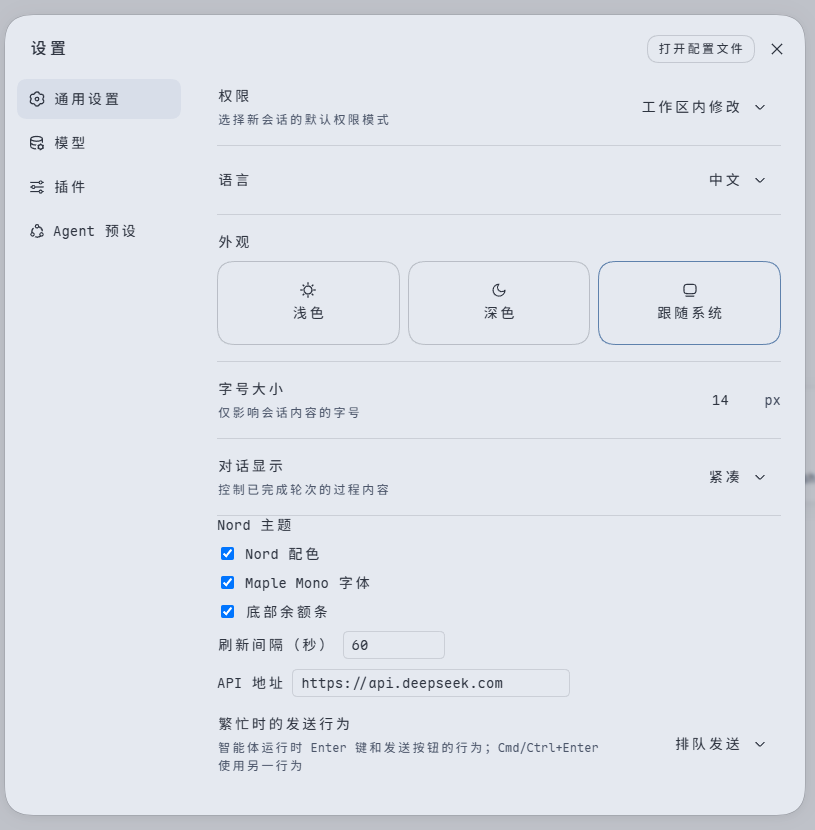
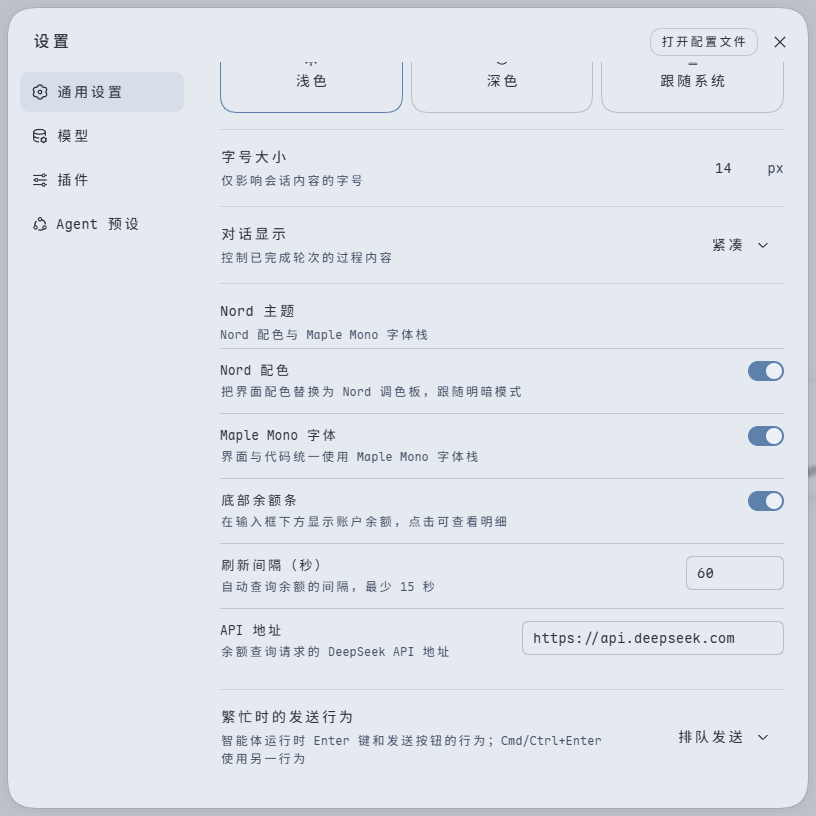
feat: 设置行改用 Switch 开关，每项补上说明文字
布尔项换成模块表里的官方 Switch（右对齐），字段换成官方 Input；行距、层级与分隔线对齐系统设置行的排版。README 设置卡截图在 0.1.5-rc.2 上重拍。

diff --git a/src/client/NordCard.tsx b/src/client/NordCard.tsx
@@ -2,9 +2,17 @@
  * General-section preference row: the theme, font, balance, and endpoint
  * controls. The owner supplies no props and draws no label — the row owns its
  * internals, its copy, and its write path.
+ *
+ * Every option is one row in the shape shipped settings rows use: label and
+ * explanation on the left, control on the right, a hairline between rows. The
+ * three booleans use the shared `Switch` — the design system owns the on/off
+ * skin, its focus ring, and its disabled state, which a native checkbox cannot
+ * carry.
  */
+import { Input, Switch } from '@deepseek-ai/dsh-client-ui-primitives'
 import type { PropsLocale, PropsRuntime, PropsStore } from '@deepseek-ai/dsh-client-ui-slots'
 import type {} from '@deepseek-ai/dsh-client-ui-settings/client'
+import type { NordKey } from './locales.ts'
 import type { createNordSettingsStore } from './stores.ts'
 
 /** Injected business face: one durable field write. */
@@ -20,22 +28,42 @@ export type NordCardProps =
   & PropsLocale<'dshNord'>
   & NordCardInjected
 
-/** Row layout. A shipped plugin replaces this with the Client styling pipeline. */
-const ROW_STYLE = { display: 'flex', flexDirection: 'column', gap: '10px' } as const
-const TITLE_STYLE = { color: 'var(--dsw-alias-label-primary)' } as const
-const OPTION_STYLE = { display: 'flex', alignItems: 'center', gap: '8px' } as const
-const FIELD_STYLE = {
-  width: '84px',
-  padding: '4px 8px',
-  border: '1px solid var(--dsw-alias-border-l2)',
-  borderRadius: '6px',
-  background: 'var(--dsw-alias-bg-layer-1)',
-  color: 'var(--dsw-alias-label-primary)',
-  font: 'inherit',
+/** Card chrome. The section strips the trailing hairline wherever the column ends. */
+const CARD_STYLE = {
+  display: 'flex',
+  flexDirection: 'column',
+  padding: '16px 0',
+  borderBottom: '0.5px solid var(--dsw-alias-border-l2)',
 } as const
-const URL_STYLE = { ...FIELD_STYLE, width: '260px' } as const
-const NOTE_STYLE = { color: 'var(--dsw-alias-label-tertiary)', fontSize: '12px' } as const
-const ERROR_STYLE = { color: 'var(--dsw-alias-state-error-primary)', fontSize: '12px' } as const
+const HEADING_STYLE = { display: 'flex', flexDirection: 'column', gap: '4px', paddingBottom: '4px' } as const
+const TITLE_STYLE = { fontSize: '14px', lineHeight: '22px', color: 'var(--dsw-alias-label-primary)' } as const
+const SUMMARY_STYLE = { fontSize: '12px', lineHeight: '18px', color: 'var(--dsw-alias-label-tertiary)' } as const
+
+/** One option: label block flexed left, control right, hairline above the row. */
+const ROW_STYLE = {
+  display: 'flex',
+  alignItems: 'flex-start',
+  justifyContent: 'space-between',
+  gap: '16px',
+  padding: '12px 0',
+  borderTop: '0.5px solid var(--dsw-alias-border-l3)',
+} as const
+const ROW_TEXT_STYLE = {
+  display: 'flex',
+  flex: '1 1 auto',
+  flexDirection: 'column',
+  gap: '2px',
+  minWidth: 0,
+} as const
+const LABEL_STYLE = { fontSize: '13px', lineHeight: '20px', color: 'var(--dsw-alias-label-primary)' } as const
+const HINT_STYLE = { fontSize: '12px', lineHeight: '18px', color: 'var(--dsw-alias-label-tertiary)' } as const
+
+/** Field widths for `Input`, whose own root shrink-wraps the inner input. */
+const INTERVAL_STYLE = { width: '76px' } as const
+const URL_STYLE = { width: '240px' } as const
+
+const NOTE_STYLE = { margin: 0, fontSize: '12px', lineHeight: '18px', color: 'var(--dsw-alias-label-tertiary)' } as const
+const ERROR_STYLE = { ...NOTE_STYLE, color: 'var(--dsw-alias-state-error-primary)' } as const
 
 /**
  * Render the Nord preference row.
@@ -55,52 +83,74 @@ export function NordCard({ useStore, t, save }: NordCardProps) {
   if (!served) return <p style={NOTE_STYLE}>{t('card.unavailable')}</p>
 
   const disabled = !writable
-  const toggle = (field: string, value: boolean) => () => { if (!disabled) save(field, value) }
+  const locked = disabled ? t('card.readonly') : undefined
+  const toggleRow = (
+    label: NordKey,
+    hint: NordKey,
+    checked: boolean,
+    field: 'themeEnabled' | 'fontEnabled' | 'balanceEnabled',
+  ) => (
+    <div style={ROW_STYLE}>
+      <div style={ROW_TEXT_STYLE}>
+        <div style={LABEL_STYLE}>{t(label)}</div>
+        <div style={HINT_STYLE}>{t(hint)}</div>
+      </div>
+      <Switch
+        checked={checked}
+        label={t(label)}
+        disabled={disabled}
+        title={locked}
+        onChange={(next) => { save(field, next) }}
+      />
+    </div>
+  )
 
   return (
-    <div style={ROW_STYLE}>
-      <div style={TITLE_STYLE}>{t('card.title')}</div>
-      <label style={OPTION_STYLE}>
-        <input type="checkbox" checked={themeEnabled} disabled={disabled} onChange={toggle('themeEnabled', !themeEnabled)} />
-        {t('card.theme')}
-      </label>
-      <label style={OPTION_STYLE}>
-        <input type="checkbox" checked={fontEnabled} disabled={disabled} onChange={toggle('fontEnabled', !fontEnabled)} />
-        {t('card.font')}
-      </label>
-      <label style={OPTION_STYLE}>
-        <input type="checkbox" checked={balanceEnabled} disabled={disabled} onChange={toggle('balanceEnabled', !balanceEnabled)} />
-        {t('card.balance')}
-      </label>
-      <label style={OPTION_STYLE}>
-        {t('card.refresh')}
-        <input
+    <div style={CARD_STYLE}>
+      <div style={HEADING_STYLE}>
+        <div style={TITLE_STYLE}>{t('card.title')}</div>
+        <div style={SUMMARY_STYLE}>{t('card.summary')}</div>
+      </div>
+      {toggleRow('card.theme', 'card.themeHint', themeEnabled, 'themeEnabled')}
+      {toggleRow('card.font', 'card.fontHint', fontEnabled, 'fontEnabled')}
+      {toggleRow('card.balance', 'card.balanceHint', balanceEnabled, 'balanceEnabled')}
+      <div style={ROW_STYLE}>
+        <div style={ROW_TEXT_STYLE}>
+          <div style={LABEL_STYLE}>{t('card.refresh')}</div>
+          <div style={HINT_STYLE}>{t('card.refreshHint')}</div>
+        </div>
+        <Input
           type="number"
           min={15}
           max={3600}
           step={1}
           value={refreshSeconds}
           disabled={disabled}
-          style={FIELD_STYLE}
+          aria-label={t('card.refresh')}
+          style={INTERVAL_STYLE}
           onChange={(event) => {
             const next = Number(event.currentTarget.value)
             if (Number.isInteger(next) && next >= 15 && next <= 3600) save('refreshSeconds', next)
           }}
         />
-      </label>
-      <label style={OPTION_STYLE}>
-        {t('card.baseURL')}
-        <input
+      </div>
+      <div style={ROW_STYLE}>
+        <div style={ROW_TEXT_STYLE}>
+          <div style={LABEL_STYLE}>{t('card.baseURL')}</div>
+          <div style={HINT_STYLE}>{t('card.baseURLHint')}</div>
+        </div>
+        <Input
           type="text"
           defaultValue={baseURL}
           disabled={disabled}
+          aria-label={t('card.baseURL')}
           style={URL_STYLE}
           onBlur={(event) => {
             const next = event.currentTarget.value.trim()
             if (next !== '' && next !== baseURL) save('baseURL', next)
           }}
         />
-      </label>
+      </div>
       {disabled ? <p style={NOTE_STYLE}>{t('card.readonly')}</p> : null}
       {error === '' ? null : <p style={ERROR_STYLE}>{t('card.saveFailed')}</p>}
     </div>

diff --git a/src/client/locales.ts b/src/client/locales.ts
@@ -8,10 +8,15 @@ export const zh = {
   'card.title': 'Nord 主题',
   'card.summary': 'Nord 配色与 Maple Mono 字体栈',
   'card.theme': 'Nord 配色',
+  'card.themeHint': '把界面配色替换为 Nord 调色板，跟随明暗模式',
   'card.font': 'Maple Mono 字体',
+  'card.fontHint': '界面与代码统一使用 Maple Mono 字体栈',
   'card.balance': '底部余额条',
+  'card.balanceHint': '在输入框下方显示账户余额，点击可查看明细',
   'card.refresh': '刷新间隔（秒）',
+  'card.refreshHint': '自动查询余额的间隔，最少 15 秒',
   'card.baseURL': 'API 地址',
+  'card.baseURLHint': '余额查询请求的 DeepSeek API 地址',
   'card.readonly': '当前连接不写入主机设置，改动只在本页生效',
   'card.unavailable': '未检测到 Host 半边，设置不可用',
   'card.saveFailed': '保存失败',
@@ -39,10 +44,15 @@ export const en: Record<NordKey, string> = {
   'card.title': 'Nord theme',
   'card.summary': 'Nord palette and Maple Mono font stacks',
   'card.theme': 'Nord palette',
+  'card.themeHint': 'Replace the interface palette with Nord, following light and dark mode',
   'card.font': 'Maple Mono font',
+  'card.fontHint': 'Use the Maple Mono stacks for both interface and code',
   'card.balance': 'Balance bar',
+  'card.balanceHint': 'Show the account balance under the composer; click it for details',
   'card.refresh': 'Refresh interval (s)',
+  'card.refreshHint': 'How often the balance is re-read; 15 seconds minimum',
   'card.baseURL': 'API base URL',
+  'card.baseURLHint': 'DeepSeek API address used for balance lookups',
   'card.readonly': 'This connection does not write host settings; changes stay on this page',
   'card.unavailable': 'Host half is not mounted; settings are unavailable',
   'card.saveFailed': 'Save failed',

diff --git a/DEVELOPMENT.md b/DEVELOPMENT.md
@@ -11,7 +11,7 @@ src/balance.ts             Host ↔ 浏览器之间的余额载荷类型
 src/client/index.ts        浏览器半边：主题层、字体、样式表、设置卡、余额轮询、两个 slot 注册
 src/client/nord.ts         Nord 调色板（116 token）、字体栈、余额表面的 CSS
 src/client/BalanceBar.tsx  余额读数与其明细面板
-src/client/NordCard.tsx    设置行
+src/client/NordCard.tsx    设置行的开关与字段
 src/client/stores.ts       设置卡与余额的 slot store
 src/client/locales.ts      `dshNord` 命名空间的中英文案
 tests/balance-mock.mjs     上游 `/user/balance` 的本地替身
@@ -28,6 +28,7 @@ assets/                    README 截图
 | Maple Mono 字体 | 一枚 `<style>` 里的 `:root` 规则 |
 | 余额 | Host 侧 `webServer` 上的 `GET /nord/balance`，用 `ctx.credentials` 解析 `DEEPSEEK_API_KEY`；浏览器侧是 dock 里一枚可点击读数 + 明细面板 |
 | 设置项 | Host `ctx.settings.installSection()` + 浏览器侧 `settings.general.item` 行，持久化进 `settings.yaml` |
+| 设置卡控件 | 模块表基线里的 `@deepseek-ai/dsh-client-ui-primitives`：布尔项用 `Switch`、字段用 `Input`，行距与配色走内联 style |
 | 余额表面的样式 | 插件自己的一枚 `<style>`（`surfaceStylesheet`）：dock 行规则、读数皮肤、面板皮肤 |
 
 ### 为什么配色走 `overrideTokens` 而不是「注册一个主题」
@@ -41,6 +42,12 @@ assets/                    README 截图
 - **81 个 `--dsw-alias-*`** —— 官方 alias 层的完整覆盖，不靠 `!important`、不靠 DOM 手术。
 - **10 个 `--dsw-specific-*`** —— 侧边栏、composer、选择器这些具名表面。
 - **25 个 `--dsw-static-*`** —— 补丁。有一批组件（计划卡、交付物、指南正文、文件类型图标、加载渐变）绕过 alias 直接读静态色阶，官方 light 把这些取成近白，在 Nord 画布上就是一个个白框。这是「浅色露白框」的真正成因，只覆盖 alias 治不了。
+
+### 设置卡为什么能用官方控件
+
+`@deepseek-ai/dsh-client-ui-primitives` 是 Web shell 预置进模块表的基线模块（`packages/client/web/src/platform.ts` 的 `PLATFORM_MODULES`），所以树外插件的 `require` 拿到的就是官方设置行用的那个模块实例，而不是打包进来的第二份：`Switch` 的胶囊皮肤、焦点环、禁用态与 `Input` 的聚焦边框都不必自己写，也不必担心 React 上下文重复。
+
+设置卡其余部分（行距、标签与说明文字的层级、字段宽度）仍是内联 style —— 树外构建没有 CSS Modules 管线，而这些声明也不需要 `:hover` / `:focus` 状态。布尔项从原生 checkbox 换成 `Switch` 也是同一个理由：勾选框在不同浏览器与配色模式下样式不可控，开关的外观则由设计系统持有。
 
 ### 为什么字体是一枚 `:root` 规则
 
@@ -141,7 +148,8 @@ DEEPSEEK_API_KEY=test-key dsh --profile web
 - Host 路由：`GET /nord/balance` 在浏览器会话栅栏后返回 200；无凭据 `{"error":"credentials-missing"}`；接 mock 后返回 `{"currency":"CNY","total":"42.50","granted":"2.50","toppedUp":"40.00","available":true,…}`。
 - 排版（隔离实例 + headless Edge 打开真实页面）：出口节点内联样式仍是 `display: contents`、计算值变成 `flex`；出口的两个子节点是官方 pill 行（`1 轮 1 步`，top 870、高 26、`padding-top` 4）与余额条（top 874、高 22、`margin-top: 4px`、`padding: 1px 8px`、`border-radius: 24px`、图标 16×16），后者计算字号 13px、字体 Maple Mono、行高 20px，两行文字同起于 875。
 - 面板：`role="dialog"`、300×159、位于读数上方 `874 − 8 − 159 = 707`、左边缘与读数对齐，圆角 12、内边距 16、字号 12/18、背景即 Nord `nord4`；四行明细取值正确；Escape 关闭；等过一个刷新周期后面板仍开着、数值不变而更新时间前进。
-- 观感：`assets/` 里的三张截图就是在这套隔离实例里拍的（拍在 `0.1.5-rc.1` 上；rc.2 的排版实测与上面一致）。
+- 设置卡（同一套隔离实例）：`通用` 段里只有这三个 `role="switch"` 控件，尺寸 36×20，右边缘与所在行右边缘齐平；每行标签下是 12/18 的说明文字；两个 `Input` 实宽 98 与 262；点「底部余额条」后 `aria-checked` 转 `false` 且 `settings.yaml` 落盘 `dsh-nord: balanceEnabled: false`，再点回 `true` 同样落盘。
+- 观感：`assets/` 里的三张截图就是在这套隔离实例里拍的（`01` / `03` 拍在 `0.1.5-rc.1`；`02` 设置卡在 `0.1.5-rc.2` 上重拍，rc.2 的排版实测与上面一致）。
 
 ## 发布到 npm
 
@@ -179,7 +187,7 @@ dsh --profile tarball                                 # 起来看一眼
 
 ## 已知限制
 
-- **没有样式管线。** 仓库内插件用 CSS Modules + 共享 `--dsw-*` token，由仓库的 tsdown preset 在编译期注入样式；树外构建拿不到这一步。设置卡用内联 style；余额条与面板由插件自己的一枚 `<style>`（`surfaceStylesheet`）承载——内联 style 表达不了 `:hover` 与 `[aria-expanded]`，而那正是它作为按钮需要的状态。代价是这几条声明是从官方 pill 与官方对话框的 CSS 手工抄来的，官方改版就得手工同步。
+- **没有样式管线。** 仓库内插件用 CSS Modules + 共享 `--dsw-*` token，由仓库的 tsdown preset 在编译期注入样式；树外构建拿不到这一步。设置卡的行距与文字层级用内联 style，控件本身用模块表里的官方 `Switch` / `Input`（它们的 hover / focus 皮肤由 ui-primitives 自己的 CSS Modules 带进来）；余额条与面板由插件自己的一枚 `<style>`（`surfaceStylesheet`）承载——内联 style 表达不了 `:hover` 与 `[aria-expanded]`，而那正是它作为按钮需要的状态。代价是这几条声明是从官方 pill 与官方对话框的 CSS 手工抄来的，官方改版就得手工同步。
 - **`faint` 色是超出 Nord 十六色的一个中性台阶**（`#7B88A1`）。官方色阶从 nord3 `#4C566A` 直接跳到 nord4 `#D8DEE9`，中间没有可用于深色背景上 caption/dimmed 文字的台阶；不用它这几处会不可读。
 - **`baseURL` 只在设置里改**，不改 `llm-deepseek` 的配置。参考插件会去读 `llm-deepseek` 段的 `baseURL`；那需要窥探另一个命名空间。
 - **余额接口的可用性取决于上游。** DeepSeek 的 `/user/balance` 不是文档化的稳定契约；字段名变化时 `src/index.ts` 的 `BalanceInfo` 需要同步。
